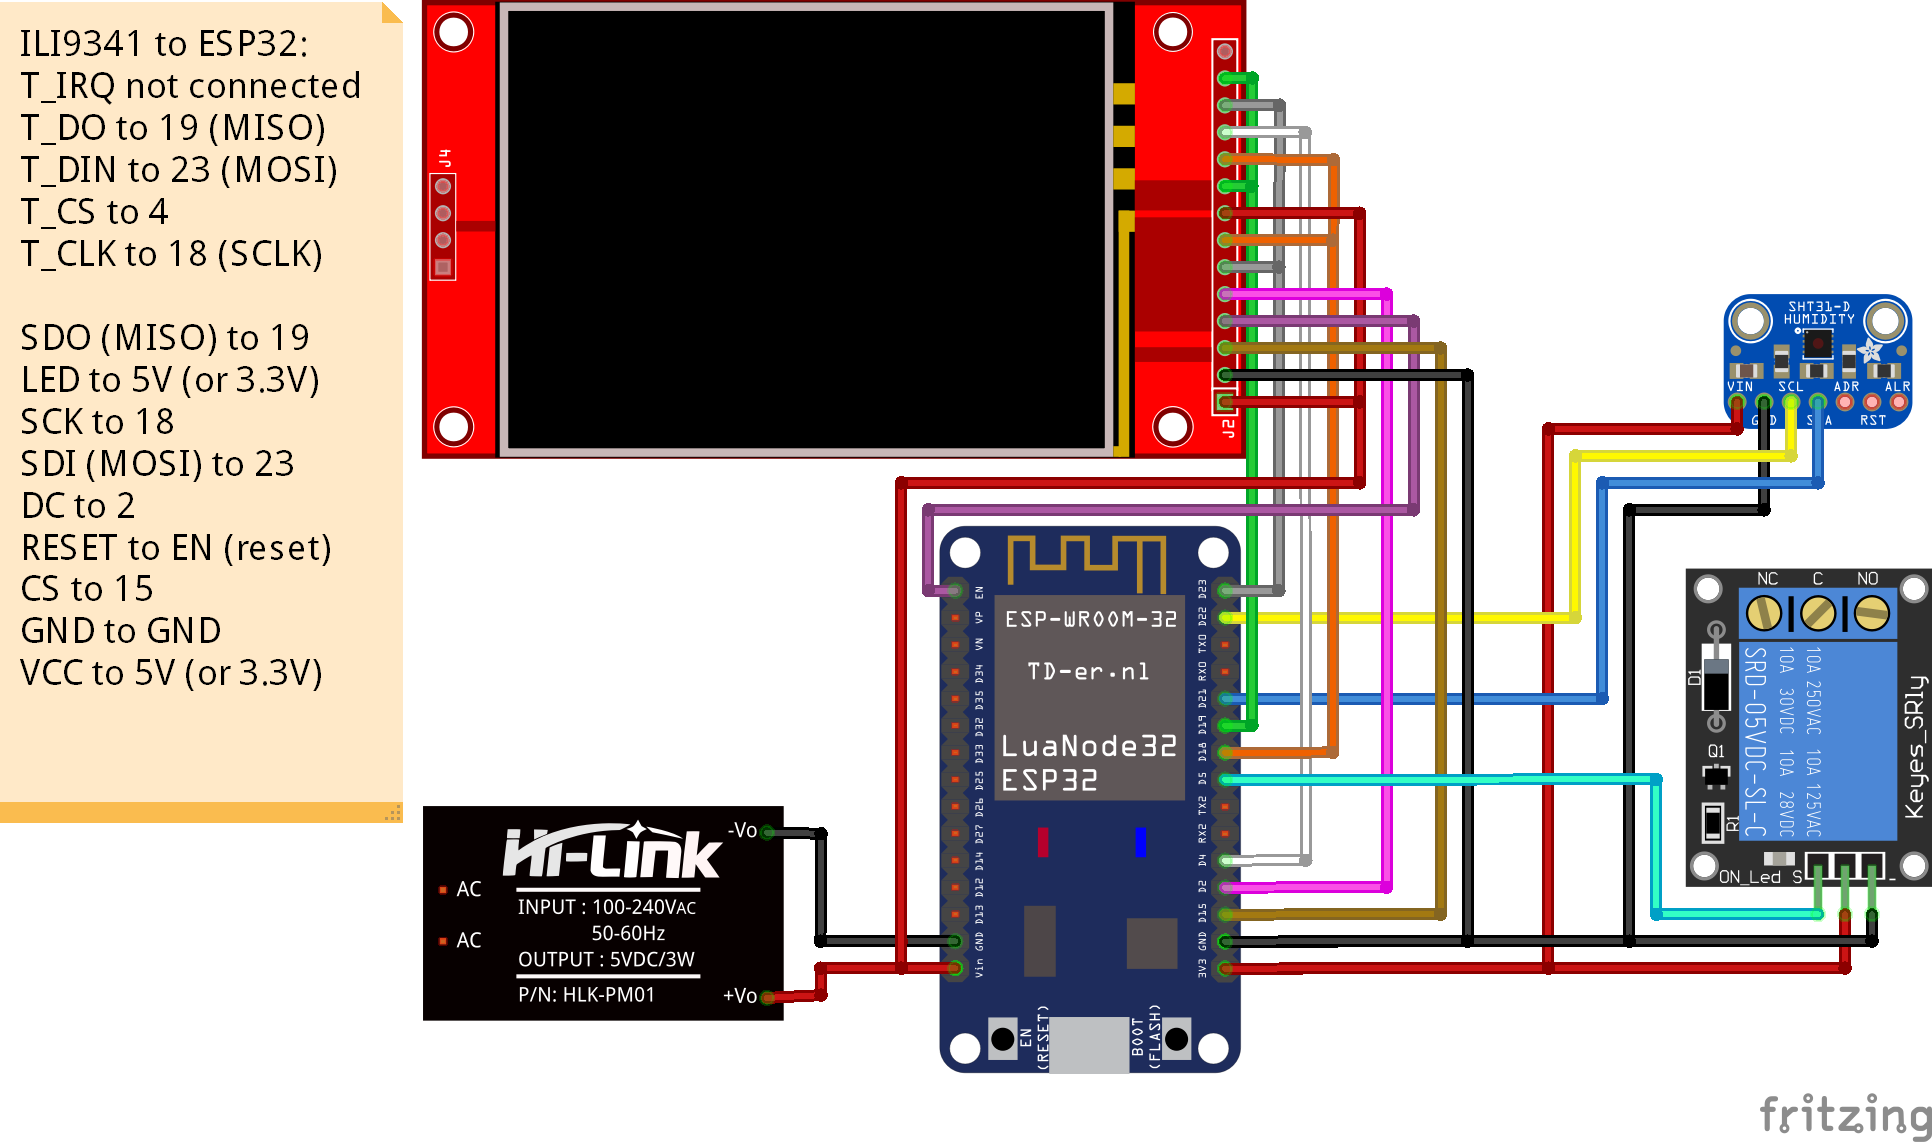
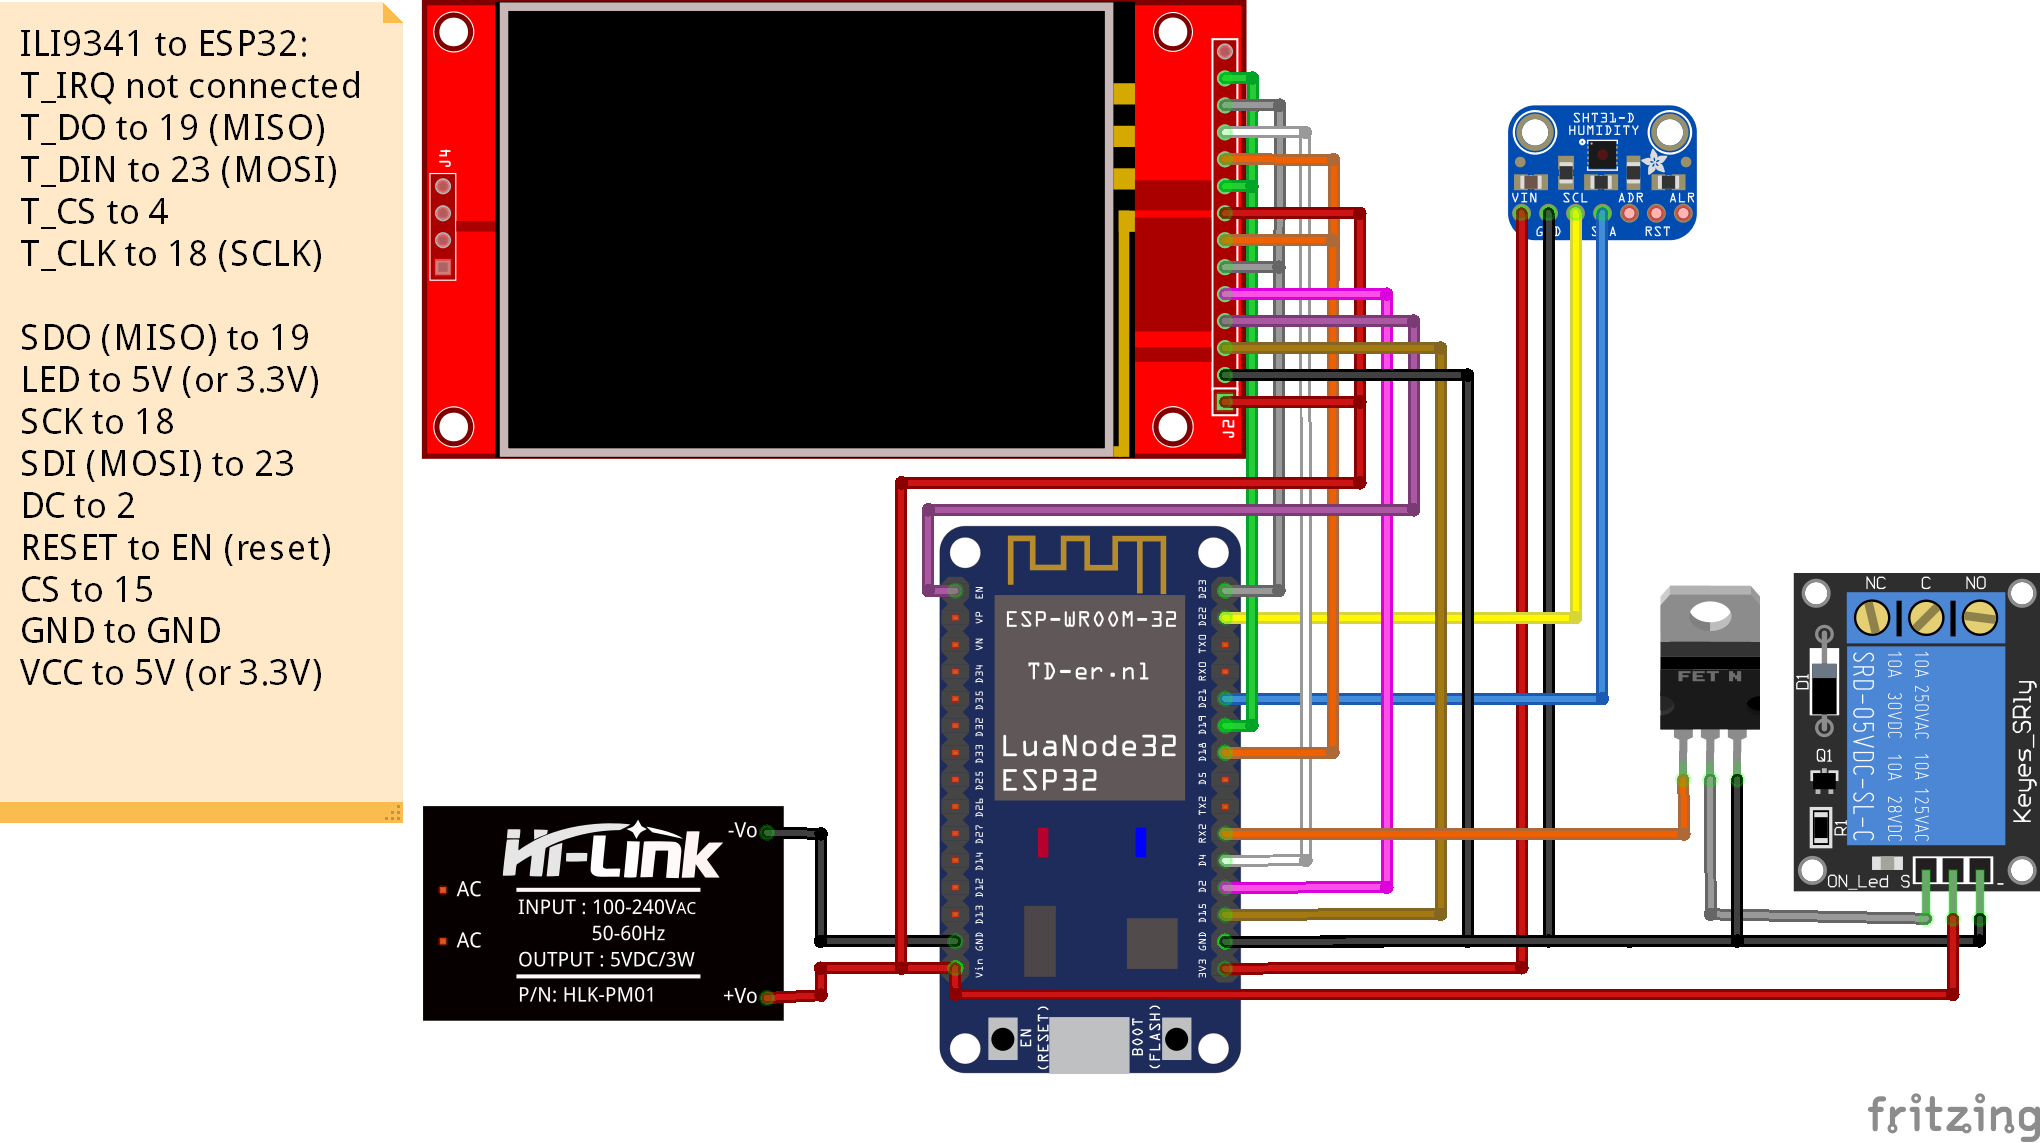
Relay, Blynk relay test

Changed region(s): [[0.0, 0.0, 1.0, 0.9493], [0.9006, 0.9493, 0.9938, 1.0]]

diff --git a/lib/InternetConnection/InternetConnection.cpp b/lib/InternetConnection/InternetConnection.cpp
@@ -15,6 +15,15 @@ const char *blynkAuth = settings.blynkAuth;
 // number of attempts to connecting WIFI,API etc.
 const int timeout = 10;
 
+// Enable/disable thermostat, set value to EEPROM to address 1
+BLYNK_WRITE(V0)
+{
+    // param.asInt() ? setToEEPROM(1, true) : setToEEPROM(1, false);
+    // InternetConnection::callThermostatControll();
+    param.asInt() ? digitalWrite(16, HIGH) : digitalWrite(16, LOW);
+    Serial.println("BLYNK_WRITE");
+}
+
 // Initialize WiFi connection. Return true if connection is successful.
 bool InternetConnection::initialize(void)
 {
@@ -89,7 +98,7 @@ float InternetConnection::getFloatFromBlynkUrl(String blynkAuth, int virtualBlyn
             http.end();
         }
     }
-    return NULL;
+    return NAN;
 }
 
 void InternetConnection::setOutdoorMeteoData(MeteoData &meteoData)

diff --git a/src/main.cpp b/src/main.cpp
@@ -1,12 +1,14 @@
 #include <Arduino.h>
 #include <InternetConnection.h>
 #include <MeteoData.h>
+#include <Thermostat.h>
 #include <Display.h>
 #include <Ticker.h>
 
 InternetConnection connection;
 MeteoData meteoData;
 Display display;
+Thermostat thermostat;
 
 const int readMeteoDataInterval = 10000;
 const int readOutdoorMeteoDataInterval = 30000;

diff --git a/lib/Thermostat/Thermostat.cpp b/lib/Thermostat/Thermostat.cpp
@@ -1,10 +1,11 @@
 #include "Thermostat.h"
 
 // relay pin
-const int relayPinAddress = 5;
+const int relayPinAddress = 16;
 
-void Thermostat::initialize()
+Thermostat::Thermostat()
 {
     // set pinmodes to LED
     pinMode(relayPinAddress, OUTPUT);
+    Serial.println("init thermostat");
 }

diff --git a/lib/Thermostat/Thermostat.h b/lib/Thermostat/Thermostat.h
@@ -1,10 +1,12 @@
 #ifndef __Thermostat_H
 #define __Thermostat_H
 
+#include <Arduino.h>
+
 class Thermostat
 {
-  public:
-    static void initialize();
+public:
+  Thermostat();
 };
 
 #endif

diff --git a/README.md b/README.md
@@ -35,6 +35,9 @@ I'm using awasome [TFT_eSPI](https://github.com/Bodmer/TFT_eSPI) library from Bo
 
 For wires connection between the display and the ESP32 look to the schema..
 
+### 5V relay vs 3.3V ESP32 pins
+When you have 5V relay, there is a need to think about 3.3V ESP32 pins. You can't just connect ESP32 pin to source pin of the relay, it would not work. One way is insert MOSFET between ESP32 pin and source pin of the relay. Other solution is just use the 3.3V relay, or solid state relay. More information is [here](https://electronics.stackexchange.com/a/213058).
+
 ### Currents list:
 * [ESP32](https://www.aliexpress.com/item/ESP-32-ESP-32S-Development-Board-WiFi-Bluetooth-Ultra-Low-Power-Consumption-Dual-Cores-ESP32-Board/32796032726.html) Espressif WROOM-32 Developer Kit
 * [HLK-PM01](https://www.aliexpress.com/item/Free-Shippingn-HLK-PM01-AC-DC-220V-to-5V-mini-power-supply-module-intelligent-household-switch/32319515750.html) 220v to 5v power supply
